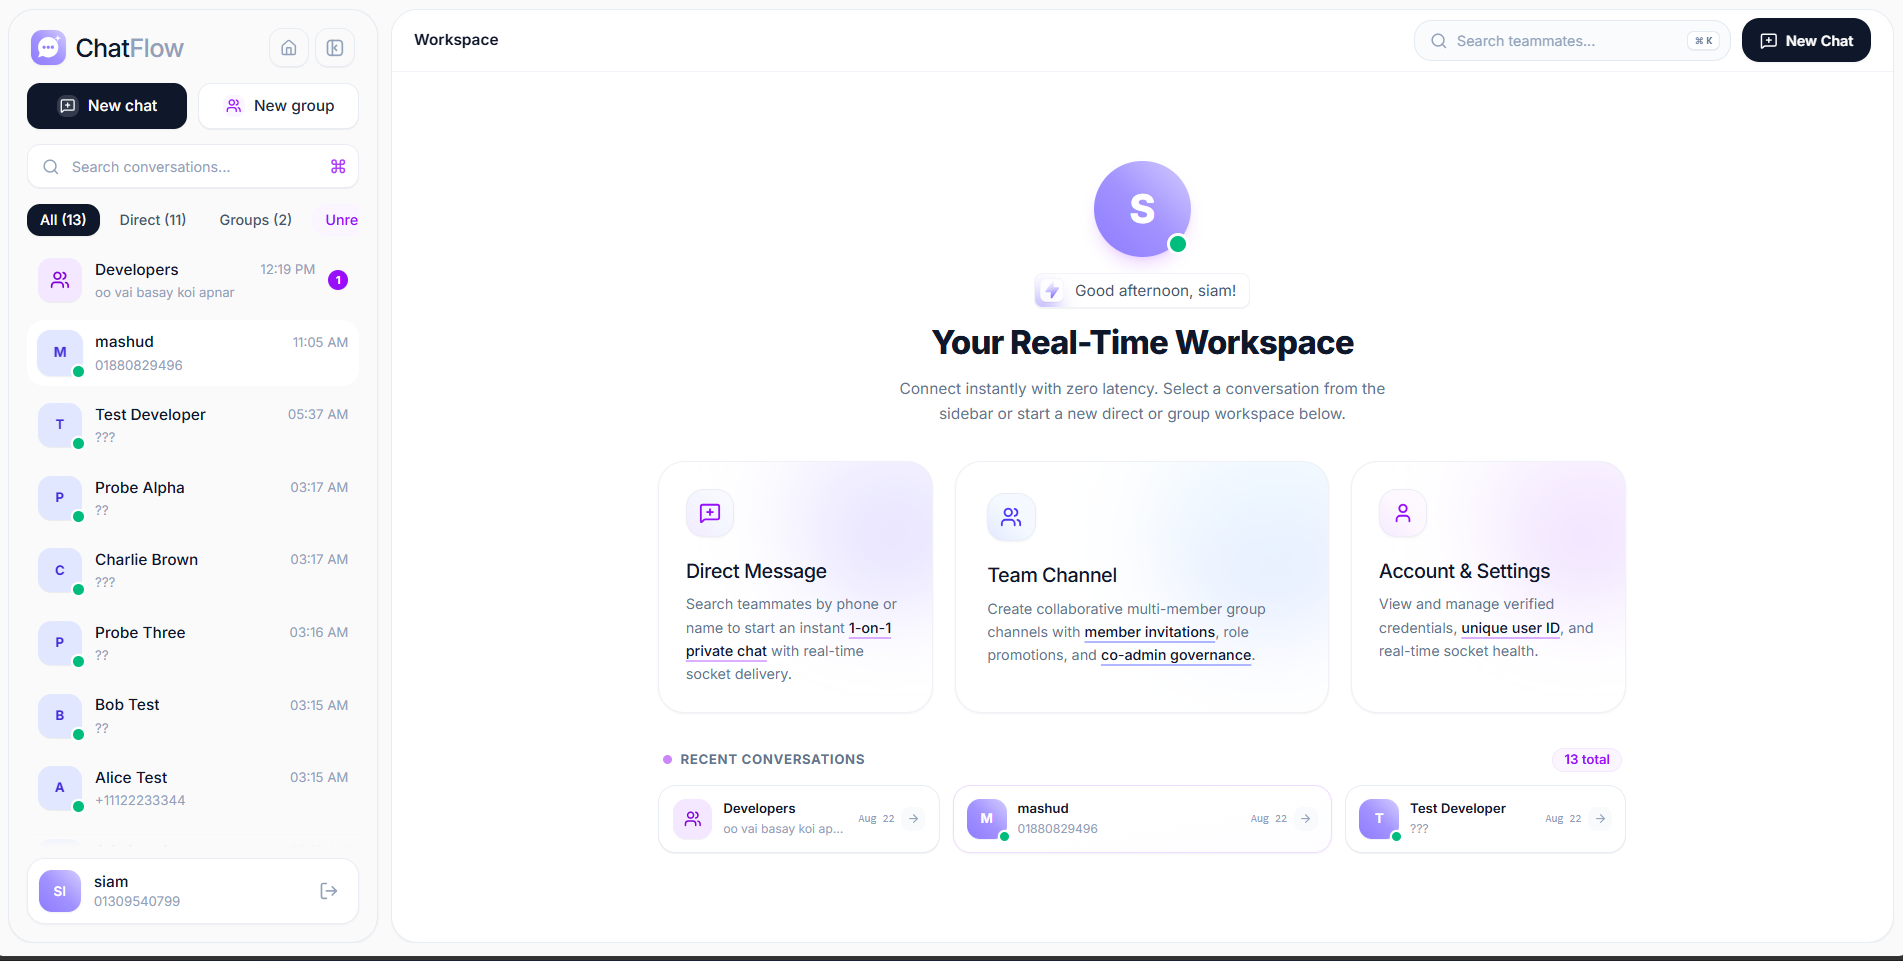
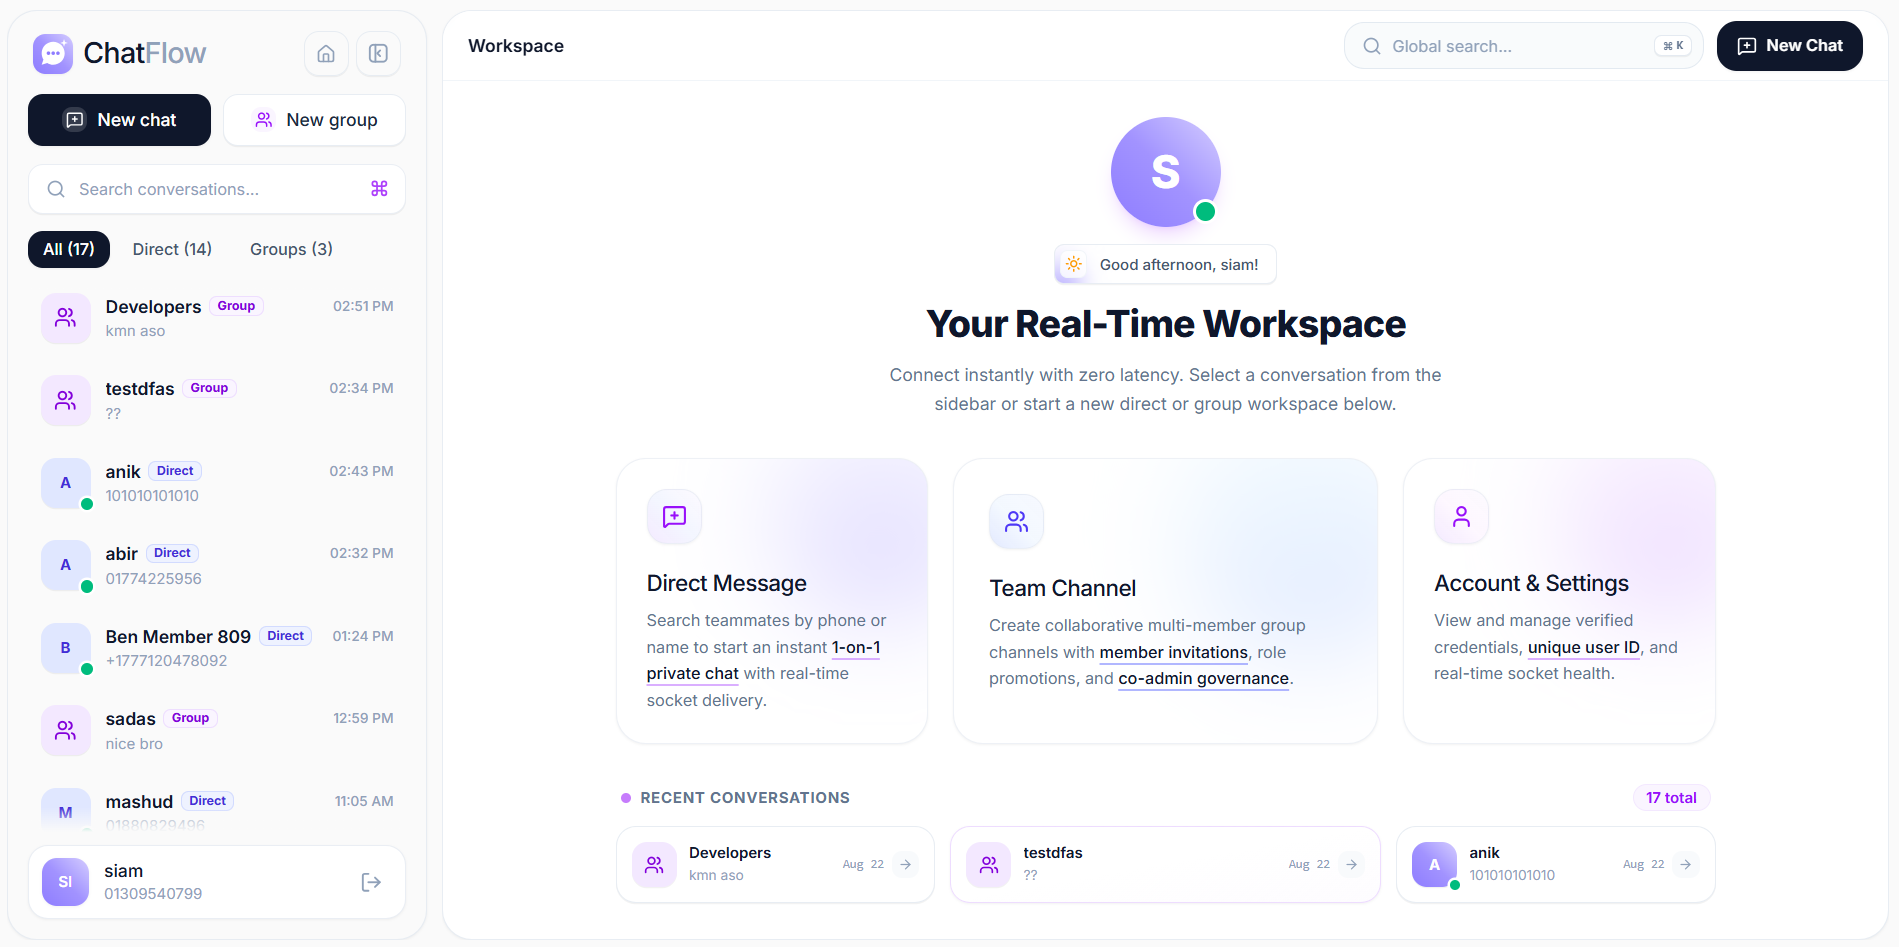
feat: implement global search modal and placeholder modals for new chats and groups

diff --git a/components/chat/NewChatModal.tsx b/components/chat/NewChatModal.tsx
@@ -1,6 +1,6 @@
 'use client';
 
-import { useState, useEffect } from 'react';
+import { useState, useEffect, useMemo } from 'react';
 import { useRouter } from 'next/navigation';
 import {
   Search,
@@ -11,12 +11,15 @@ import {
   MessageSquare,
   ArrowRight,
   CheckCircle2,
+  UserPlus,
 } from 'lucide-react';
 import { useChatUIStore } from '@/store/useChatUIStore';
 import { useConversations } from '@/hooks/useConversations';
 import { useUserSearch } from '@/hooks/useUserSearch';
 import { toast } from 'sonner';
 import { SearchUser } from '@/types';
+
+type TeammateFilterTab = 'all' | 'new' | 'existing';
 
 export default function NewChatModal() {
   const router = useRouter();
@@ -25,6 +28,7 @@ export default function NewChatModal() {
   const { conversations, createDirectConversation } = useConversations();
   const { query, setQuery, users, isLoading, error } = useUserSearch();
   const [selectedUserId, setSelectedUserId] = useState<string | null>(null);
+  const [activeTab, setActiveTab] = useState<TeammateFilterTab>('all');
 
   // Close on Escape key
   useEffect(() => {
@@ -47,6 +51,34 @@ export default function NewChatModal() {
           (c.participants && c.participants.some((p) => p._id === userId)))
     );
   };
+
+  // Group users into New Contacts vs. Already Messaged
+  const { newUsers, existingUsers } = useMemo(() => {
+    const existingDirectIds = new Set(
+      conversations
+        .filter((c) => c.type === 'direct')
+        .map((c) => c.participant?._id)
+        .filter(Boolean)
+    );
+
+    const newArr: SearchUser[] = [];
+    const existArr: SearchUser[] = [];
+    for (const u of users) {
+      if (existingDirectIds.has(u._id)) {
+        existArr.push(u);
+      } else {
+        newArr.push(u);
+      }
+    }
+    return { newUsers: newArr, existingUsers: existArr };
+  }, [users, conversations]);
+
+  // Filter based on active tab
+  const displayedUsers = useMemo(() => {
+    if (activeTab === 'new') return newUsers;
+    if (activeTab === 'existing') return existingUsers;
+    return users;
+  }, [activeTab, newUsers, existingUsers, users]);
 
   if (!isNewChatOpen) return null;
 
@@ -85,7 +117,7 @@ export default function NewChatModal() {
     >
       <div
         onClick={(e) => e.stopPropagation()}
-        className="w-full max-w-lg rounded-[28px] border border-slate-200/80 dark:border-border/80 bg-white dark:bg-card p-6 sm:p-7 shadow-2xl text-card-foreground"
+        className="w-full max-w-xl sm:max-w-[620px] rounded-[28px] border border-slate-200/80 dark:border-border/80 bg-white dark:bg-card p-6 sm:p-7 shadow-2xl text-card-foreground"
       >
         {/* Header */}
         <div className="flex items-center justify-between pb-4 border-b border-slate-100 dark:border-border/60">
@@ -133,11 +165,42 @@ export default function NewChatModal() {
           </div>
         </div>
 
-        {/* Results Header */}
-        <div className="flex items-center justify-between mt-3 pt-1 px-1">
-          <p className="text-xs font-semibold text-slate-500 dark:text-slate-400">
-            {query ? `Results for "${query}"` : 'Available Teammates'} ({users.length})
-          </p>
+        {/* Filter Tabs: All vs New Contacts vs Already Messaged */}
+        <div className="flex items-center gap-1.5 mt-3 pt-1 overflow-x-auto no-scrollbar pb-0.5">
+          <button
+            onClick={() => setActiveTab('all')}
+            className={`px-3 py-1.5 rounded-full text-xs font-semibold transition-all cursor-pointer whitespace-nowrap ${
+              activeTab === 'all'
+                ? 'bg-slate-900 text-white dark:bg-white dark:text-slate-900 shadow-2xs'
+                : 'bg-slate-100/80 text-slate-600 hover:bg-slate-200/70 dark:bg-muted/40 dark:text-slate-400'
+            }`}
+          >
+            All Teammates ({users.length})
+          </button>
+
+          <button
+            onClick={() => setActiveTab('new')}
+            className={`px-3 py-1.5 rounded-full text-xs font-semibold transition-all cursor-pointer whitespace-nowrap flex items-center gap-1.5 ${
+              activeTab === 'new'
+                ? 'bg-slate-900 text-white dark:bg-white dark:text-slate-900 shadow-2xs'
+                : 'bg-slate-100/80 text-slate-600 hover:bg-slate-200/70 dark:bg-muted/40 dark:text-slate-400'
+            }`}
+          >
+            <UserPlus className="h-3 w-3" />
+            <span>New Contacts ({newUsers.length})</span>
+          </button>
+
+          <button
+            onClick={() => setActiveTab('existing')}
+            className={`px-3 py-1.5 rounded-full text-xs font-semibold transition-all cursor-pointer whitespace-nowrap flex items-center gap-1.5 ${
+              activeTab === 'existing'
+                ? 'bg-slate-900 text-white dark:bg-white dark:text-slate-900 shadow-2xs'
+                : 'bg-slate-100/80 text-slate-600 hover:bg-slate-200/70 dark:bg-muted/40 dark:text-slate-400'
+            }`}
+          >
+            <CheckCircle2 className="h-3 w-3 text-purple-500" />
+            <span>Already Messaged ({existingUsers.length})</span>
+          </button>
         </div>
 
         {/* Results List with Top & Bottom Shadow Fades */}
@@ -169,11 +232,17 @@ export default function NewChatModal() {
               <div className="py-8 text-center text-xs text-rose-500">
                 Failed to search. Please try again.
               </div>
-            ) : users.length === 0 ? (
+            ) : displayedUsers.length === 0 ? (
               <div className="py-8 text-center text-slate-400 space-y-1 border border-slate-200/60 dark:border-border/50 rounded-2xl bg-slate-50/40 dark:bg-muted/20 p-4">
                 <UserIcon className="h-7 w-7 mx-auto opacity-30" />
                 <p className="text-sm font-medium text-slate-700 dark:text-slate-300">
-                  {query ? 'No matching teammates found' : 'No registered teammates found'}
+                  {query
+                    ? 'No matching teammates found'
+                    : activeTab === 'new'
+                    ? 'No new unmessaged contacts found'
+                    : activeTab === 'existing'
+                    ? 'No existing conversations yet'
+                    : 'No registered teammates found'}
                 </p>
                 <p className="text-xs text-slate-400">
                   {query
@@ -183,7 +252,7 @@ export default function NewChatModal() {
               </div>
             ) : (
               <div className="space-y-1.5">
-                {users.map((targetUser) => {
+                {displayedUsers.map((targetUser) => {
                   const isStarting = selectedUserId === targetUser._id;
                   const existingConv = getExistingConversation(targetUser._id);
                   const isAlreadyMessaged = !!existingConv;

diff --git a/components/chat/GlobalSearchModal.tsx b/components/chat/GlobalSearchModal.tsx
@@ -94,8 +94,14 @@ export default function GlobalSearchModal() {
 
   if (!isGlobalSearchOpen) return null;
 
-  const handleOpenConversation = (convId: string) => {
+  const handleClose = () => {
     setGlobalSearchOpen(false);
+    setQuery('');
+    setActiveTab('all');
+  };
+
+  const handleOpenConversation = (convId: string) => {
+    handleClose();
     setActiveConversationId(convId);
     router.push(`/chat/${convId}`);
   };
@@ -124,7 +130,7 @@ export default function GlobalSearchModal() {
 
   return (
     <div
-      onClick={() => setGlobalSearchOpen(false)}
+      onClick={handleClose}
       className="fixed inset-0 z-50 flex items-start sm:items-center justify-center bg-black/60 backdrop-blur-md p-3 sm:p-4 pt-12 sm:pt-4 animate-in fade-in duration-200"
     >
       <div
@@ -152,7 +158,7 @@ export default function GlobalSearchModal() {
             </div>
           </div>
           <button
-            onClick={() => setGlobalSearchOpen(false)}
+            onClick={handleClose}
             className="flex h-8 w-8 items-center justify-center rounded-xl bg-slate-100/80 hover:bg-slate-200/80 dark:bg-muted text-slate-400 hover:text-slate-700 dark:hover:text-white transition-colors cursor-pointer"
           >
             <X className="h-4 w-4" />

diff --git a/components/chat/NewGroupModal.tsx b/components/chat/NewGroupModal.tsx
@@ -122,7 +122,7 @@ export default function NewGroupModal() {
     >
       <div
         onClick={(e) => e.stopPropagation()}
-        className="w-full max-w-lg rounded-[28px] border border-slate-200/80 dark:border-border/80 bg-white dark:bg-card p-6 sm:p-7 shadow-2xl text-card-foreground"
+        className="w-full max-w-xl sm:max-w-[620px] rounded-[28px] border border-slate-200/80 dark:border-border/80 bg-white dark:bg-card p-6 sm:p-7 shadow-2xl text-card-foreground"
       >
         
         {/* Header */}
